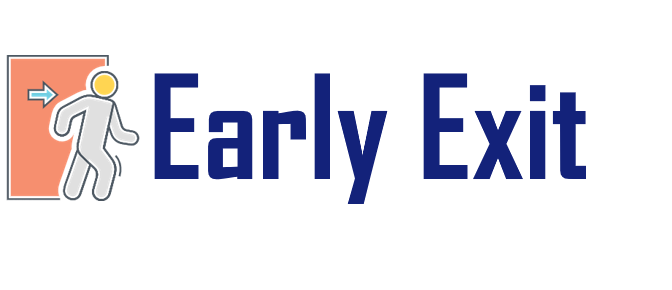
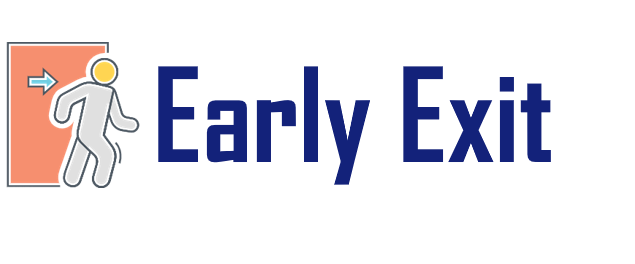
update

diff --git a/index.html b/index.html
@@ -37,7 +37,7 @@ Advised by Prof. <a href="https://xpqiu.github.io/">Xipeng Qiu</a> &amp; Prof. <
 <td align="left"><p><b>A unified benchmark for efficient NLP is coming soon:)</b><br /></p>
 </td></tr></table>
 <table class="imgtable"><tr><td>
-<img src="./pictures/EXIT.png" alt="EarlyExit" width="143px" height="60px" />&nbsp;</td>
+<img src="./pictures/EXIT.png" alt="EarlyExit" width="131.5px" height="60px" />&nbsp;</td>
 <td align="left"><p><b>A curated list of Early Exiting papers, benchmarks, and misc.</b><br />
 [<a href="https://github.com/txsun1997/awesome-early-exiting">link</a>]</p>
 </td></tr></table>
